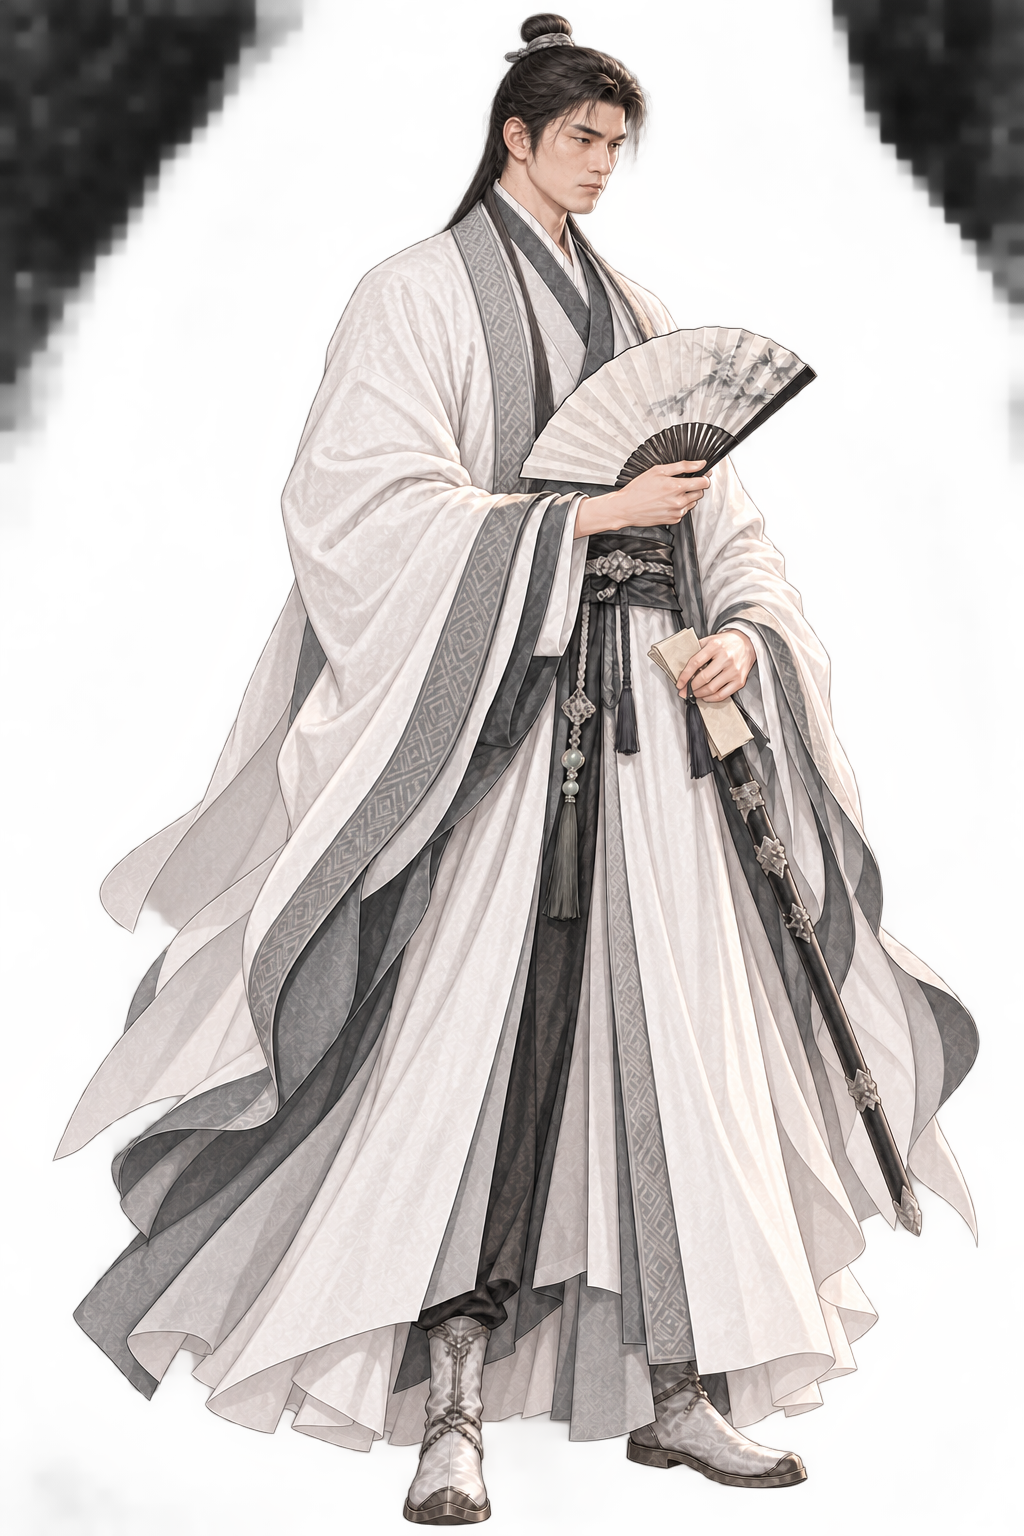
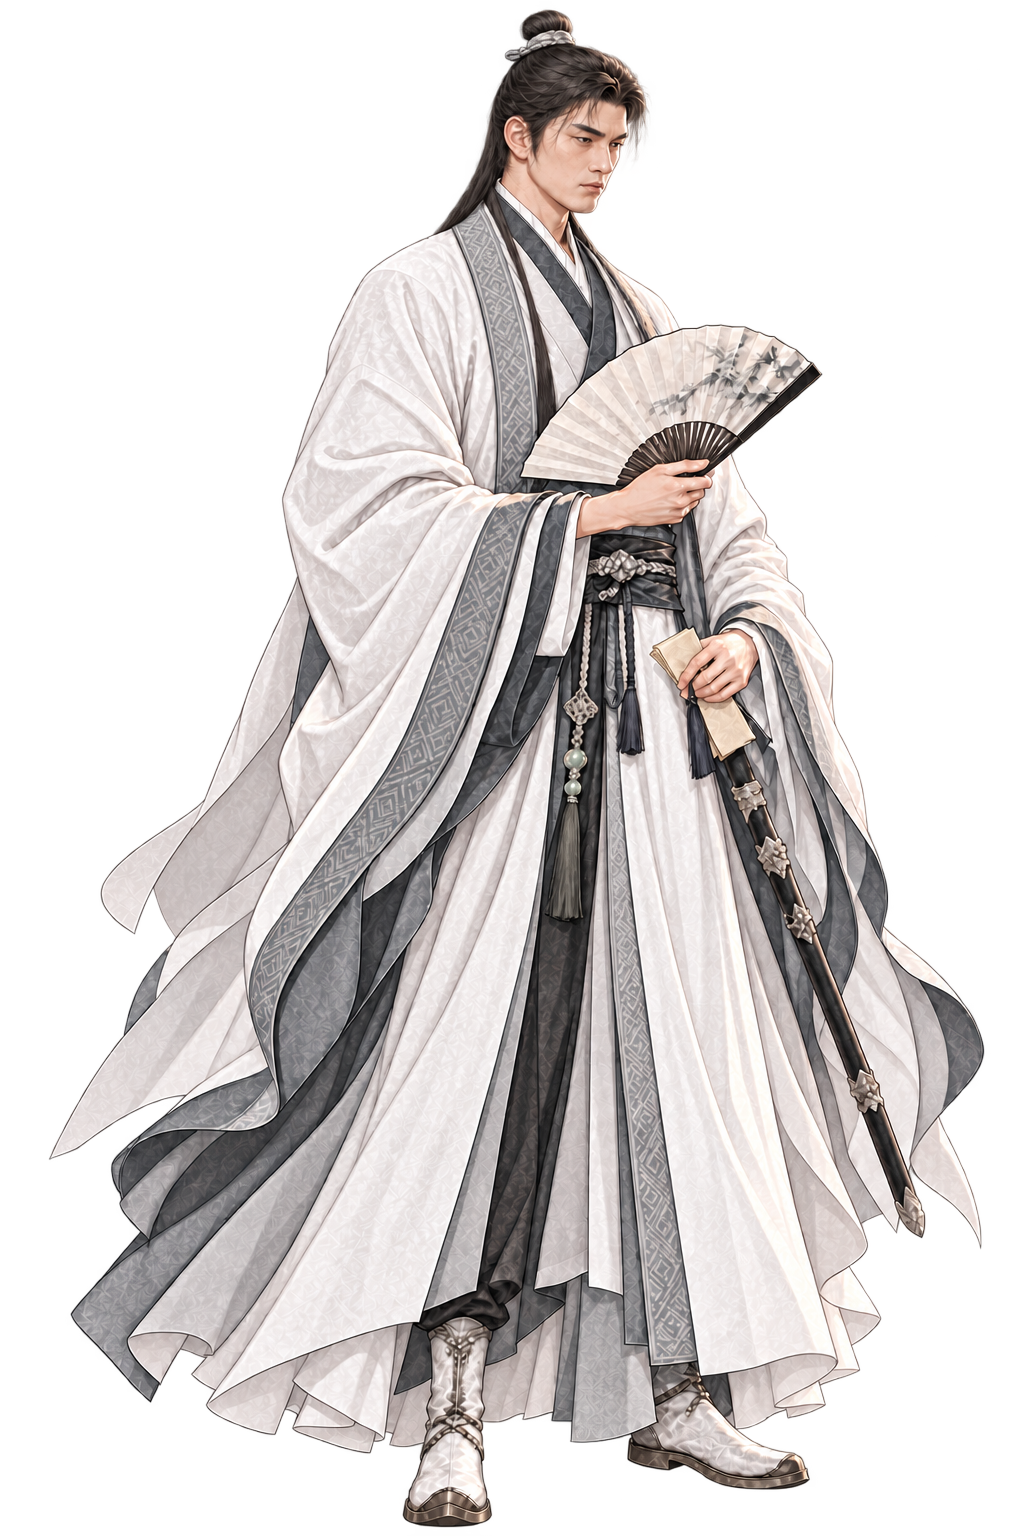
Remove residual backgrounds from three standing portraits

diff --git a/Docs/CHARACTER_ALPHA_AUDIT.md b/Docs/CHARACTER_ALPHA_AUDIT.md
@@ -1,0 +1,23 @@
+# 캐릭터 투명 배경 검사 (2026-10-29)
+
+대상은 `Assets/_Project/Resources/Art/Standing` 146장과 `Battle` 82장, 합계 228장의 PNG다. 캐릭터 그림을 사용하는 두 폴더 전체를 검사했으며, 장면 배경과 아이템 그림은 대상에 포함하지 않았다.
+
+모든 파일의 PNG 디코딩·RGBA 채널을 확인하고, 네 모서리 픽셀·24×24 패치·전체 테두리의 알파값을 비교했다. 검출된 후보는 원본을 열어 무기·옷자락 등 실제 캐릭터와 배경을 구분했다. 알파값이 0이 아닌 픽셀을 일괄 삭제하거나 검은색을 색상 기준으로 지우는 방식은 사용하지 않았다.
+
+## 수정 파일
+
+| Standing 파일 | 수정 전 문제 | 수정 후 완전 투명 픽셀 비율 |
+|---|---|---|
+| `mo_yonghwi.png` | 네 모서리와 테두리까지 반투명 배경이 남음 | 43.7% |
+| `baek_muyeong.png` | 위쪽 모서리와 테두리에 반투명 배경이 남음 | 47.5% |
+| `no_hak.png` | 네 모서리와 테두리에 반투명 배경이 남음 | 56.4% |
+
+위 3장은 이미지 편집 도구로 배경·비네트·주변 안개를 제거했다. 1024×1536 RGBA 형식과 파일명, Unity `.meta` 및 GUID는 그대로 유지했다. 검은 머리카락과 의상은 캐릭터로 보존했다.
+
+수정 후 세 파일 모두 테두리에 알파값 10/255 초과 픽셀이 없다. 이 기준은 눈에 보이는 배경 잔여물 검출을 위한 것으로, 투명도 1/255 같은 미세한 안티앨리어싱 노이즈를 캐릭터 손상 없이 구분하기 위해 사용했다.
+
+## 나머지 검출 후보
+
+`Standing/jeok_hyeol.png`, `Standing/yonggol_bandit.png`, `Battle/ho_cheongang.png`는 모서리 근처의 창·칼 끝, `Battle/default_assassin.png`는 가장자리에 닿은 캐릭터 실루엣으로 확인했다. 배경으로 판단해 삭제하지 않았다. 나머지 파일의 모서리에는 위 세 수정 파일과 같은 넓은 배경 오염이 검출되지 않았다.
+
+228장 전체의 파일 무결성과 알파 검사를 다시 수행했다. Unity Editor가 없는 환경이므로 게임 화면에서의 최종 합성 표시는 확인하지 못했다.
